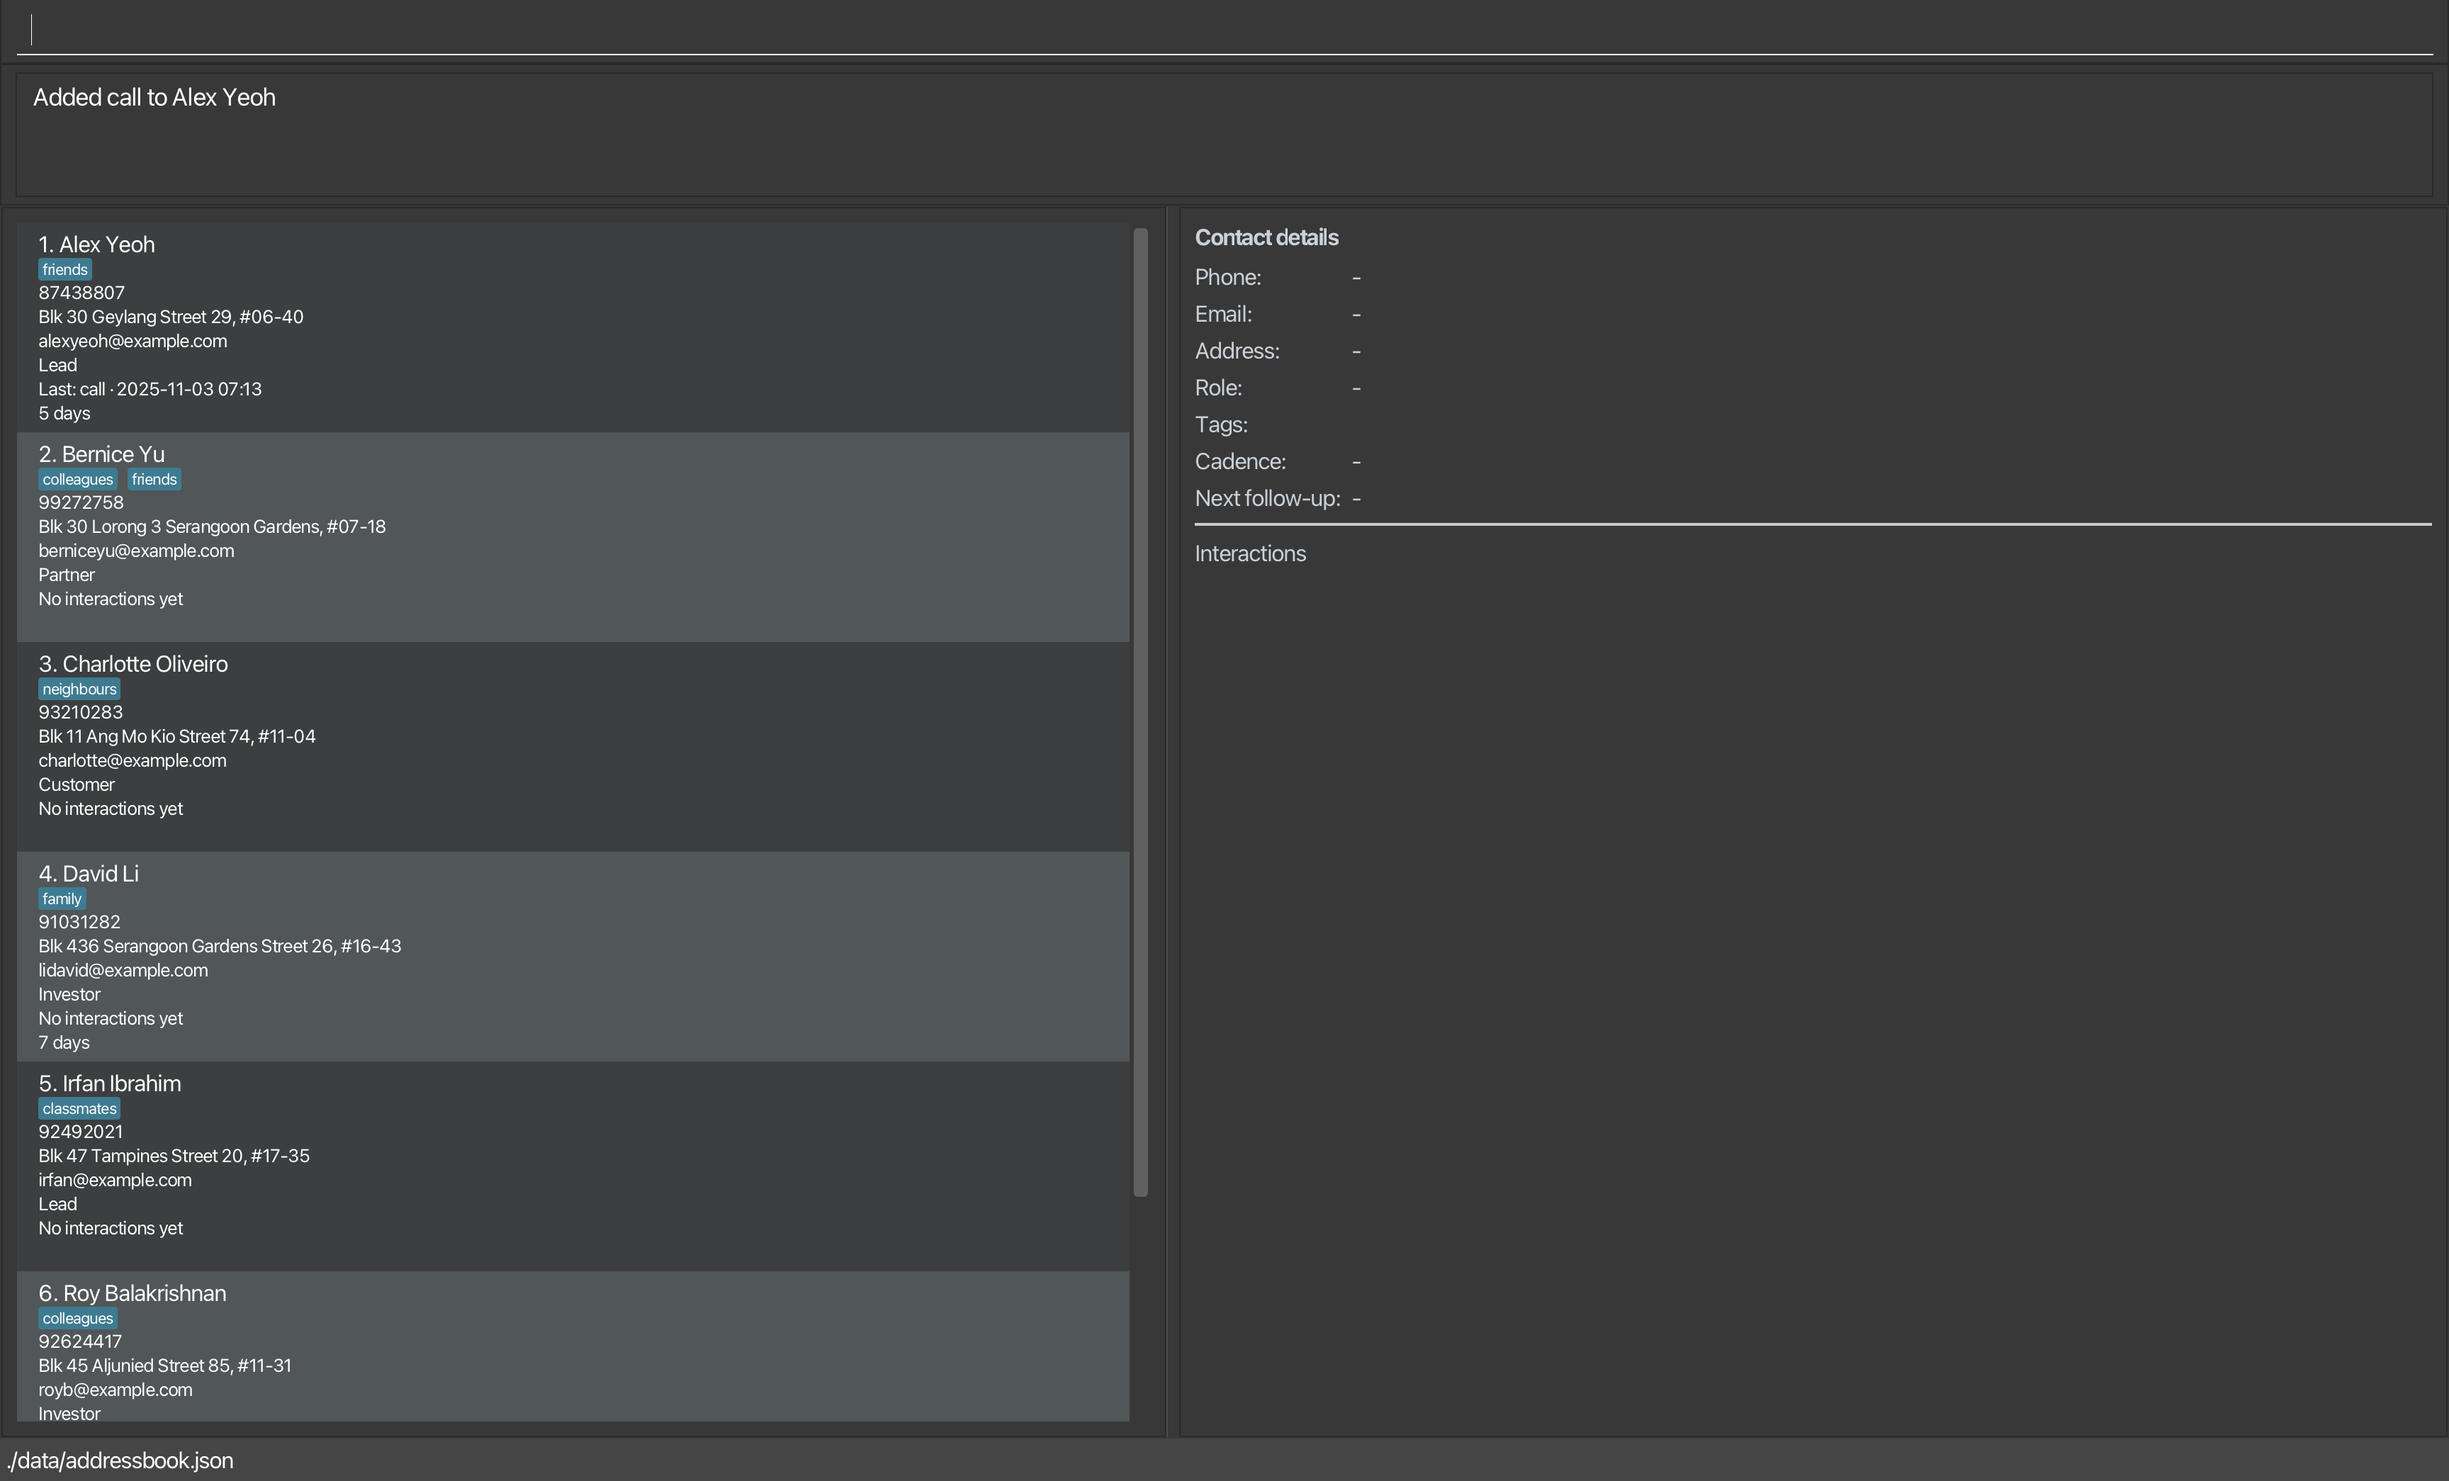
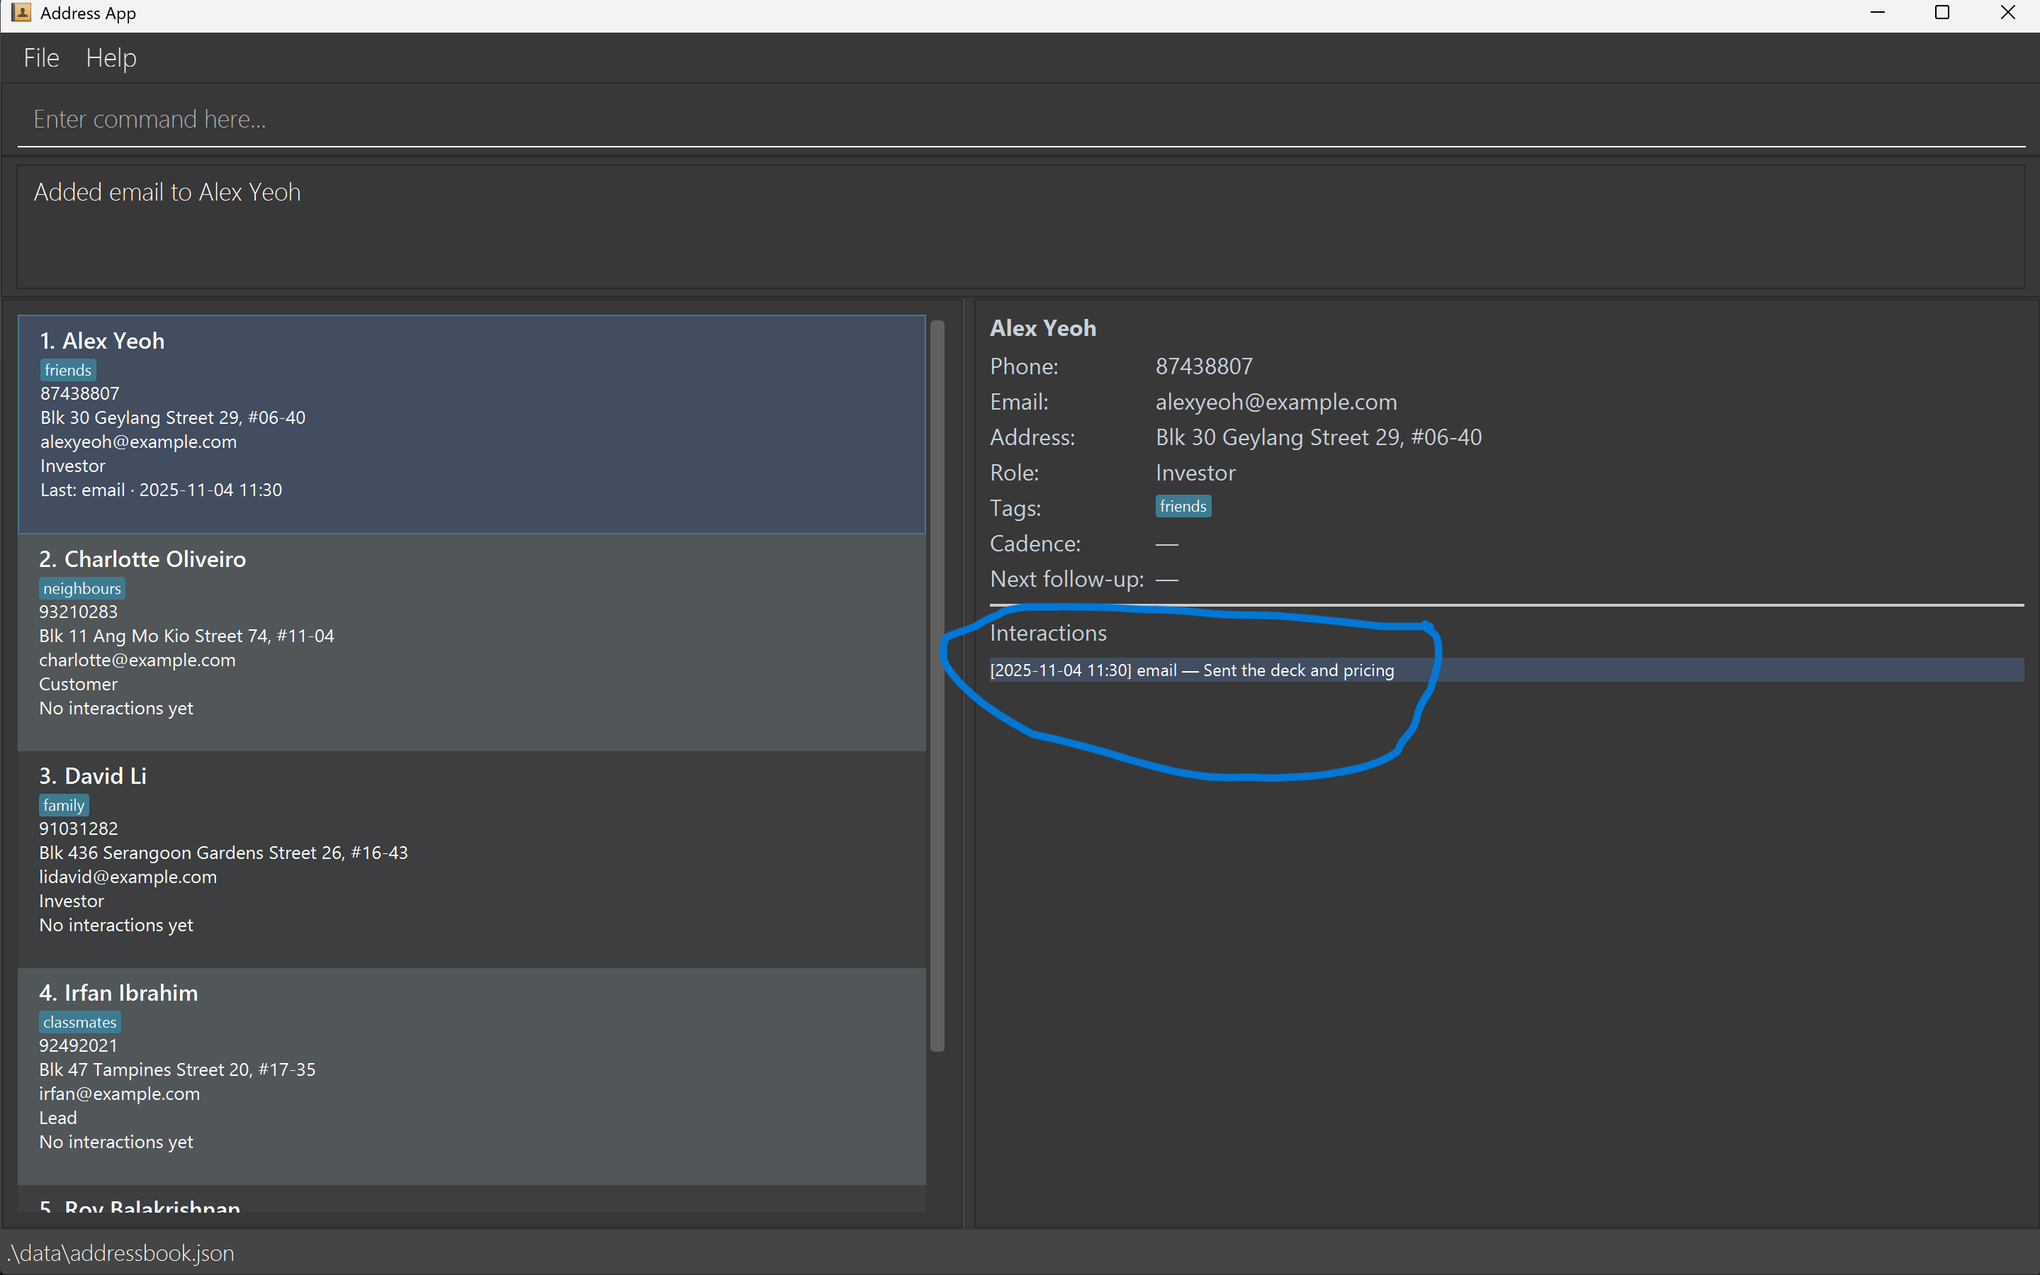
Update user guide

Changed region(s): [[0.0, 0.1556, 1.0, 1.0], [0.0, 0.0, 1.0, 0.1245], [0.5564, 0.5914, 0.6801, 0.6226]]

diff --git a/docs/UserGuide.md b/docs/UserGuide.md
@@ -158,8 +158,11 @@ MeshCRM helps entrepreneurs and teams turn scattered contacts into a structured,
 
 Opens a new window displaying the user guide link.
 The help window includes:
-* A clickable link to the User Guide
-* A Copy URL button to copy the user guide link
+* A clickable link is also available on the top left corner of the application.
+* A Copy URL button to copy the user guide link.
+
+**Format:**
+`help`
 
 <p align="left">
 <img src="images/helpMessageNewer.png" alt="Help Message" width="600"/>
@@ -192,10 +195,10 @@ Adds a new contact to the address book. Does not allow duplicate names.
 <p align="left">
 <img src="images/addCommandExample.png" alt="Added John Tan as a contact" width="600"/>
 </p>
-> ⚠ **Warning:** Duplicate names are not allowed.  
-> If a contact already exists with the same name, the command will be rejected.
+⚠ **Warning:** Duplicate names are not allowed.
+If a contact already exists with the same name, the command will be rejected.
 
-> 💡 **Tip:** Use `c/7` or `c/14` to set regular follow-ups automatically — perfect for staying in touch with leads or clients.
+> 💡 **Tip:** Use `c/7` to set regular followups weekly — perfect for staying in touch with leads or clients.
 
 ---
 
@@ -245,6 +248,8 @@ Edits an existing contact’s details by index.
 <p align="left">
 <img src="images/editCommandExample.png" alt="Edited the first person's role to Customer and cadence to 4 days" width="600"/>
 </p>
+⚠ **Warning:** Duplicate names are not allowed.
+Editing a contact's name which results in duplicate names will cause the command to be rejected.
 
 ---
 
@@ -261,7 +266,7 @@ Shows the full contact list.
 * The command is **recorded in command history**.
 * **Abbreviation:** `l` can also be used to perform the same action.
 * **Current behaviour:**
-  `list` is processed even if you type extra text after it, such as `list x/1` or `list 123`.
+  `list` is processed even if you type extra text after it with a whitespace separating both, such as `list x/1` or `list 123`.
   The additional text is **ignored** and the full list is still shown.
 
 **Examples:**
@@ -299,6 +304,7 @@ Finds persons whose names contain any of the given keyword(s).
 <p align="left">
 <img src="images/findCommandExample1.png" alt="Result for find irfan" width="600"/>
 </p>
+
 * `find li`
 <p align="left">
 <img src="images/findCommandExample2.png" alt="Result for find li" width="600"/>
@@ -315,6 +321,7 @@ Clears all entries from the address book.
 <p align="left">
 <img src="images/clearCommandExample.png" alt="Clear" width="600"/>
 </p>
+
 ---
 
 ### Logging an interaction : `log`
@@ -359,6 +366,8 @@ Adds an interaction (call / email / meeting / note) to a person’s history.
 <p align="left">
 <img src="images/logCommandExample.png" alt="Logged a call with the first person" width="600"/>
 </p>
+
+> 💡 **Tip:** The logged interaction will appear in the person's details panel as shown in the blue circle.
 
 ---
 
@@ -426,6 +435,7 @@ Duplicate entries (based on `Person#equals`) are skipped automatically.
 <p align="left">
 <img src="images/importCommandExample.png" alt="Imported contacts from mycontacts.csv" width="600"/>
 </p>
+
 ---
 
 ### Viewing tag statistics : `stats`
@@ -461,11 +471,11 @@ This command helps you prioritise which contacts to reach out to next.
 * Sorting affects only the displayed list — your data remains unchanged.
 * Useful for tracking regular check-ins or follow-ups with clients.
 
-> 💡 **Tip:** Use `sortfollowup` after logging new interactions to quickly see who you’ve recently contacted. </div>
- 
 <p align="left">
 <img src="images/sortFollowUpCommandExample.png" alt="sortfollowup" width="600"/>
 </p>
+
+> 💡 **Tip:** Use `sortfollowup` after logging new interactions to quickly see who you’ve recently contacted. </div>
 
 ---
 
@@ -484,6 +494,8 @@ Press <kbd>↑</kbd> and <kbd>↓</kbd> to navigate command history.
     * <kbd>↑</kbd> — previous command
     * <kbd>↓</kbd> — next command
 
+> 💡 **Tip:** Use the command history feature to quickly cycle through past commands. </div>
+
 ---
 
 ### Undoing latest command : `undo`
@@ -496,6 +508,8 @@ Undoes the most recent command made
 **Details:**
 * Undo is recorded in the command history
 * Undoing a command does not remove it from the command history
+> 💡 **Tip:** Use the undo feature to quickly undo any unintentional commands. </div>
+
 
 ---
 
